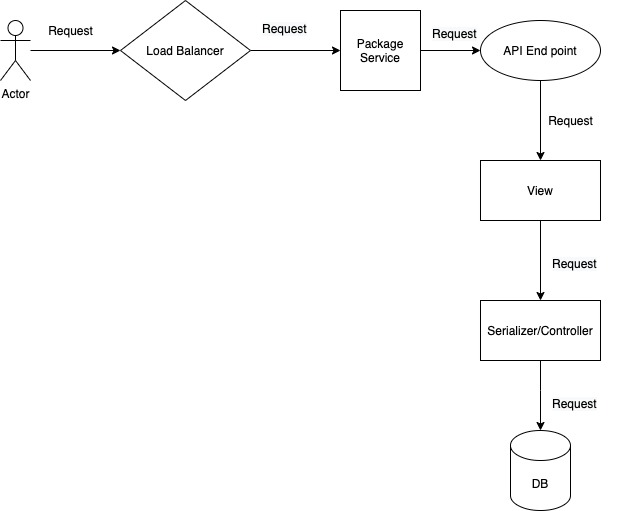
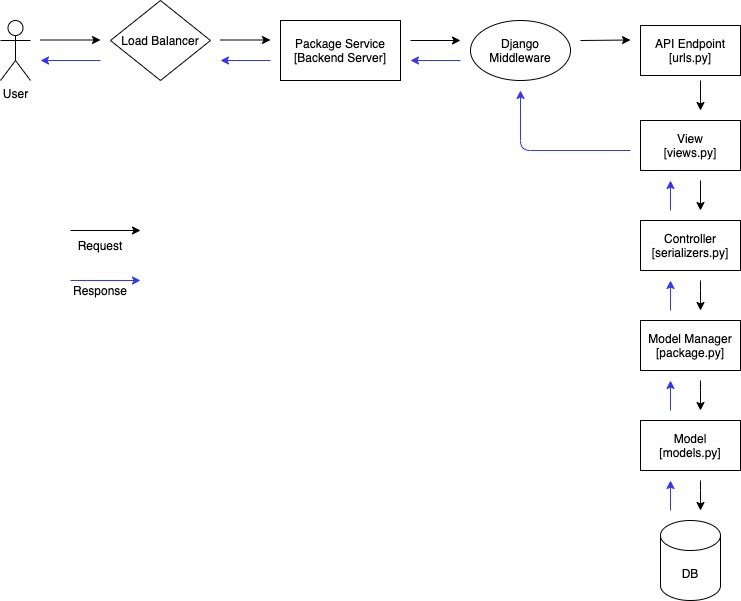
Minor Changes:  * Updated README.  * Added populate package command.  * Text alignment.  * Updated the request flow diagram.  * Updated the curl test case.  * Decreased the expected package count to 50.  * Updated request_flow diagram.

diff --git a/cran/libs/test/test_curl_controller.py b/cran/libs/test/test_curl_controller.py
@@ -10,8 +10,9 @@ class CurlTestCase(TestCase):
         output = json.loads(
             CurlController.send_get_request(url="https://catfact.ninja/fact")
         )
-        output_keys = list(output.keys())
-        expected_output_keys = ["fact", "length"]
-        self.assertEqual(
-            output_keys, expected_output_keys, "test_send_get_request failed!"
-        )
+        expected_output = {"fact": False, "length": False}
+        for key, value in output.items():
+            expected_output[key] = True
+
+        for key, value in expected_output.items():
+            self.assertEqual(value, True, "test_send_get_request failed!")

diff --git a/cran/package/management/commands/populate_package.py b/cran/package/management/commands/populate_package.py
@@ -23,7 +23,7 @@ class Command(BaseCommand):
         A command to populate the package information from the external end-points.
         """
         logging.info("Populating the package table...")
-        Command.populate_package(package_count=100)
+        Command.populate_package(package_count=50)
         logging.info("Done!")
 
     @staticmethod

diff --git a/README.md b/README.md
@@ -47,16 +47,16 @@ python 3.7 or higher
 
 
 # Setup environment:
-##1. Create a virtual environment
+## 1. Create a virtual environment
 
   - `python3 -m venv <path>`
 
-##2. Activate virtual environment
+## 2. Activate virtual environment
 
   - `source <path_to_virtual_environment>/bin/activate`
 
-##3. Install requirements. Use the package manager pip to install the dependencies. 
-pip install -r requirements.txt
+## 3. Install requirements. Use the package manager pip to install the dependencies. 
+`pip3 install -r requirements.txt`
 
 
 ## NOTE: Running the migrations will try to create tables in the `default` database.
@@ -70,16 +70,16 @@ pip install -r requirements.txt
 
   * Alternatively, you can use the sqlite database by changing the DATABASES dictionary in settings.py.
 
-##4. Run migrations
+## 4. Run migrations
 
-`python manage.py makemigrations`
+`python3 manage.py makemigrations`
 
-python manage.py migrate
+`python3 manage.py migrate`
 
-##5. Run Project
+## 5. Run Project
 Open terminal and run the following commands:
 
-python manage.py runserver
+`python3 manage.py runserver`
 
 ---
 ## Run Tests
@@ -91,17 +91,23 @@ python manage.py runserver
 
 * To check the coverage report:
   * `coverage report`
+  
+---
+# API 
 
-----
+### Command to populate package
+
+`python3 manage.py populate_package`
+
+### Curl for Search API
+
+`curl --location --request GET 'localhost:8000/api/v1/package/search/?name=a'`
+
+---
 # Request Flow
 
 Please check [this diagram](request_flow.jpg) for the expected request flow from an architectural perspective.
 
-
----
-# Curl for API
-
-`curl --location --request GET 'localhost:8000/api/v1/package/search/?name=a'`
 
 ---
 # Further Enhancements
